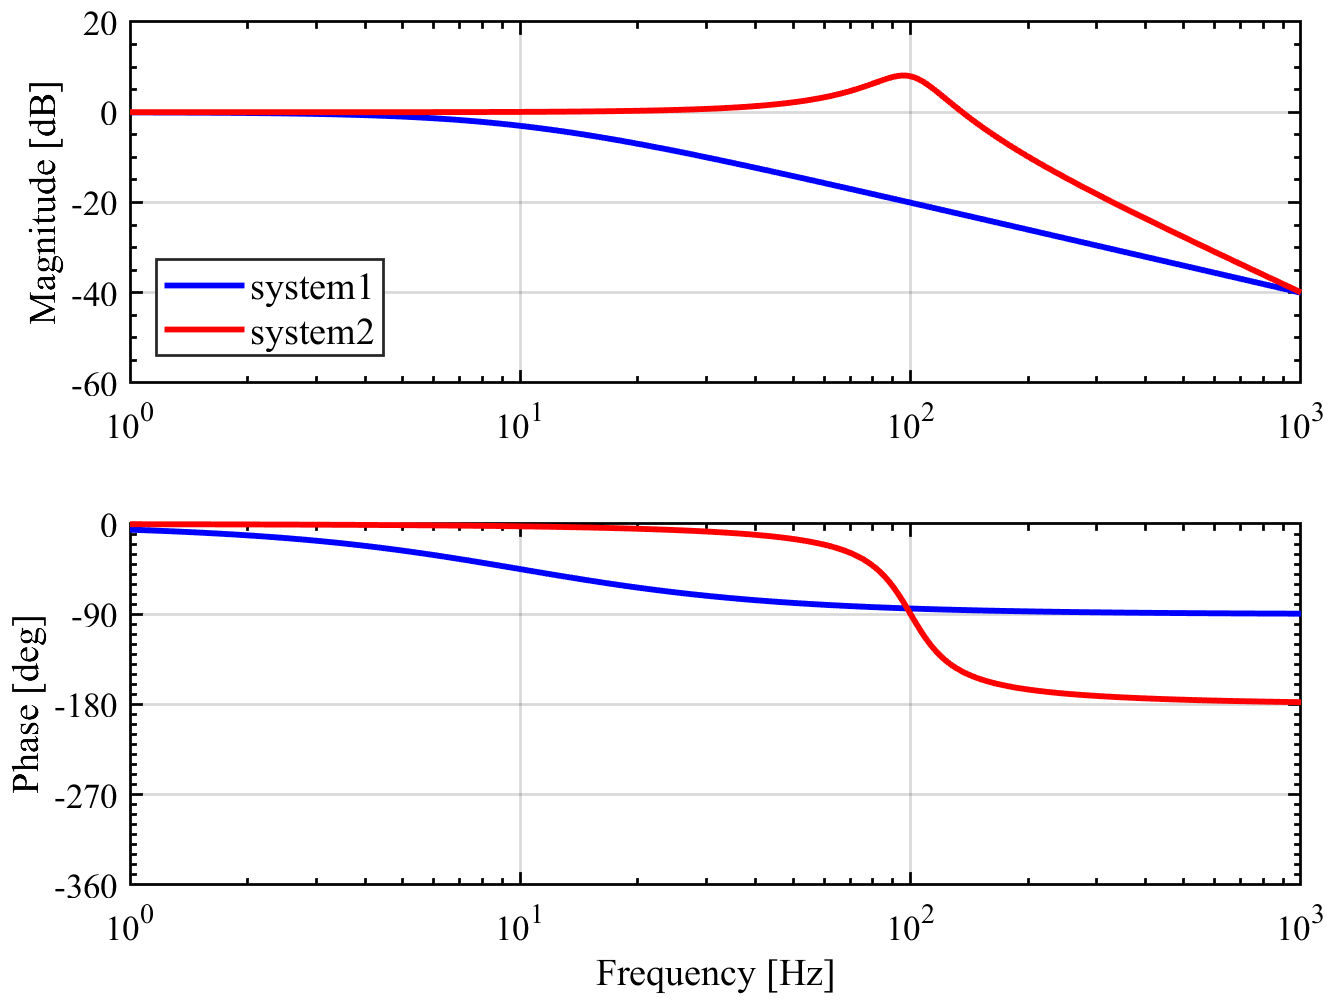
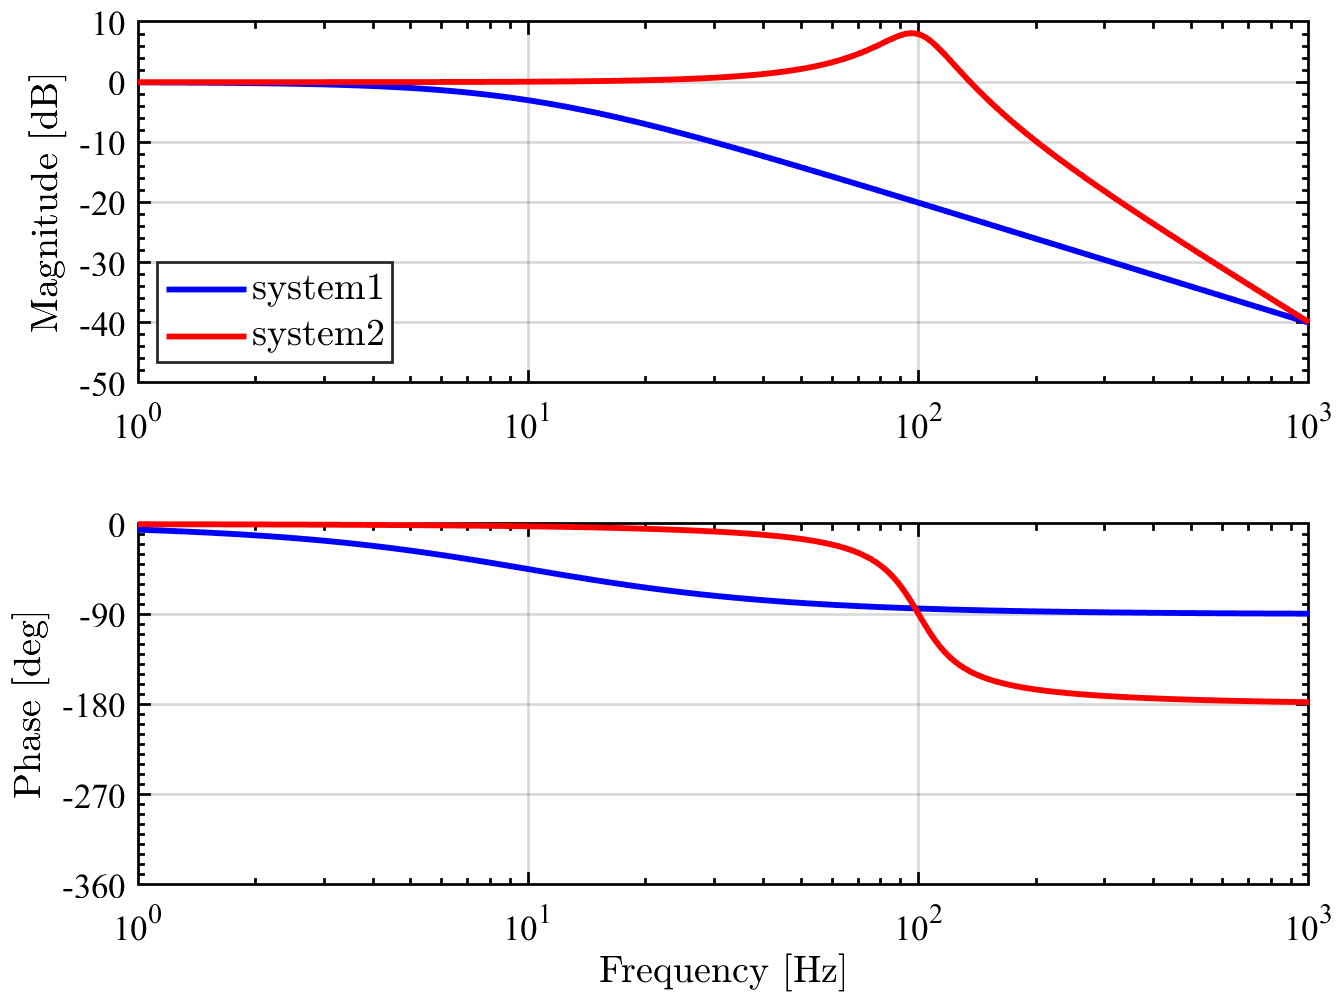
update pltBode

diff --git a/src/pltBode.m b/src/pltBode.m
@@ -1,4 +1,4 @@
-function [pfig, hfig, ax] = pltBode(in,option,cohflag)
+function [pfig, hfig, ax] = pltBode(in,option)
 %pltBode - plot Bode diagram
 %
 % pfig = pltBode(in,option)
@@ -21,61 +21,78 @@ function [pfig, hfig, ax] = pltBode(in,option,cohflag)
 %   option.foption = 'lin'; % freq plot options 'log' or 'lin'
 %   option.Legpos   : legend in gain or phase plot 'gain' or 'phase'
 %   option.title = 'Bode plot'; % title
-%   cohflag         : coherence plot
-% Advanced options
-%   data1.P         : plant model
-%   data1.Cfb       : FB controller model
-%   data1.Csh       : shaping filters
-%   option.plot     : 'P'   : plant
-%                     'PCsh': plant shaping (PCsh)
-%                     'S'   : sensitivity (1/(1+PCfbCsh))
-%                     'T'   : complementary sensitivity (PCfbCsh/(1+PCfbCsh))
-%                     'Gop' : open loop (PCfbCsh)
+%   option.noPhae = false;
 % Author    : Wataru Ohnishi, University of Tokyo, 2017
 %%%%%
-
-
-N = length(in);
 
 if nargin < 2
     option = struct;
 end
 
-if nargin < 3
-    cohflag = 0;
+data = iscellinput(in);
+option = setoptions(data,option);
+freq = option.freq;
+[option,data] = setconstraints(data,option);
+
+N = length(data);
+data = shapeData(data,freq);
+option = findGainRange(data,option);
+
+% plot figure
+ax = nan;
+hfig = figure;
+if ~option.noPhase
+    ax(1) = subplot(2,1,1);
+    pltGain(data,option);
+    
+    ax(2) = subplot(2,1,2);
+    pltPhase(data,option);
+    linkaxes(ax,'x');
+else
+    pltGain(data,option);
 end
 
+
+if exist('pubfig','file')
+    pfig = pubfig(hfig);
+    pfig.LegendLoc = option.LegendLoc;
+else
+    pfig = [];
+end
+if option.noPhase, ax = []; end
+end
+
+%%%%%%%%%%%%%%%%%%%%%%%%%%%%%%%%%%%%%%%%%%%%%%%%%%%%%%%%%%%%%%%%%%%%%%%%%%%
+
+function data = iscellinput(in)
+N = length(in);
 data = cell(1,N); % to accept pltBode(tf(1)) or pltBode({tf(1)})
 for k = 1:1:N
     if iscell(in) == 0
         in = {in};
     end
-    try
+    if isfield(in{k},'sys')
         data{k}.sys = in{k}.sys;
         data{k} = in{k};
-    catch
+    else
         data{k}.sys = in{k};
     end
 end
-
-try option.plot; catch, option.plot = 'sys'; end
-for k = 1:1:N
-    if strcmp(option.plot,'P'), data{k}.sys = data{k}.P; end
-    if strcmp(option.plot,'PCsh'), data{k}.sys = data{k}.P*data{k}.Csh; end
-    if strcmp(option.plot,'S'), data{k}.sys = feedback(1,data{k}.P*data{k}.Cfb*data{k}.Csh); end
-    if strcmp(option.plot,'T'), data{k}.sys = feedback(data{k}.P*data{k}.Cfb*data{k}.Csh,1); end
-    if strcmp(option.plot,'Gop'), data{k}.sys = data{k}.P*data{k}.Cfb*data{k}.Csh; end
 end
 
+function option = setoptions(data,option)
 if ~isfield(option,'fmin'), option.fmin = 1; option.fmax = 1000; end
 if ~isfield(option,'pmin'), option.pmin = -360; option.pmax = 0; end
 if ~isfield(option,'ptick'), option.ptick = 90; end
 if ~isfield(option,'foption'), option.foption = 'log'; end
 if ~isfield(option,'Legpos'), option.Legpos = 'gain'; end
 if ~isfield(option,'LegendLoc'), option.LegendLoc = 'best'; end
-if ~isfield(option,'phasePlot'), option.phasePlot = 1:length(in); end
-if ~isfield(option,'freq'), freq = logspace(log10(option.fmin),log10(option.fmax),1000); else, freq = option.freq; end
+if ~isfield(option,'phasePlot'), option.phasePlot = 1:length(data); end
+if ~isfield(option,'freq'), option.freq = logspace(log10(option.fmin),log10(option.fmax),1000); end
+if ~isfield(option,'noPhase'), option.noPhase = false; end
+end
 
+function [option,data] = setconstraints(data,option)
 if isfield(option,'m')
     s = tf('s');
     data_con.sys = (s/option.wc)^option.m;
@@ -91,15 +108,17 @@ if isfield(option,'Smax')
     data_con2.style = ':';
     data = [data,data_con2];
 end
-N = length(data);
+end
 
+function data = shapeData(data,freq)
 colorlist = {'b','r','k','m','g','c','g2','b2','b3'};
-for k = 1:1:N
+for k = 1:1:length(data)
     % convert to FRD
     if isnumeric(data{k}.sys)
         data{k}.sys = tf(data{k}.sys);
     end
-    if ~isfield(data{k}.sys,'ResponseData')
+%     if ~isfield(data{k}.sys,'ResponseData')
+    if ~isa(data{k}.sys,'frd')
         [mag,phase,w] = bode(data{k}.sys,freq*2*pi);
         data{k}.sys = frd(squeeze(mag).*exp(1j*deg2rad(squeeze(phase))),w/2/pi,'FrequencyUnit','Hz');
     end
@@ -114,45 +133,48 @@ for k = 1:1:N
         data{k}.sys.FrequencyUnit = 'Hz';
     end
     
-    try data{k}.style; catch, data{k}.style = '-'; end
-    try data{k}.color; catch, data{k}.color = colorlist{mod(k,9)}; end
-    try data{k}.name; catch, data{k}.name = num2str(k); end
+    if ~isfield(data{k},'style'), data{k}.style = '-'; end
+    if ~isfield(data{k},'color'), data{k}.color = colorlist{mod(k,9)}; end
+    if ~isfield(data{k},'name'), data{k}.name = num2str(k); end
     
     % color options
     data{k}.color = str2rgb(data{k}.color);
 end
+end
 
+function option = findGainRange(data,option)
 if ~isfield(option,'gmin')
     h = figure;
-    for k = 1:N
+    for k = 1:length(data)
         bode(data{k}.sys); hold on
     end
+    xlim([option.fmin,option.fmax]);
     option.gmin = h.Children(3).YLim(1);
     option.gmax = h.Children(3).YLim(end);
+    if abs(option.gmin) > 1, option.gmin = round(option.gmin); end
+    if abs(option.gmax) > 1, option.gmax = round(option.gmax); end
     option.gtick = h.Children(3).YTick(2)-h.Children(3).YTick(1);
     close(h);
 end
+end
 
-ax = nan;
-%%%%%%%%%%%%%%%%%%%%%%%%%%%%%%%%%%%%%%%%%%%%%%%%%%%%%%%%%%%%%%%%%%%%%%%%%%%%%%%
-hfig = figure;
-if ~cohflag, ax(1) = subplot(2,1,1);
-elseif cohflag, ax(1) = subplot(3,1,1); end
-for k = 1:1:N
+function pltGain(data,option)
+gain = @(data) mag2db(abs(squeeze(data.sys.ResponseData)));
+for k = 1:1:length(data)
     if strcmp(option.foption, 'log')
         if strcmp(data{k}.style,'')
-            h = scatter(data{k}.sys.frequency,mag2db(abs(squeeze(data{k}.sys.ResponseData))),'filled','o'); hold on
+            h = scatter(data{k}.sys.frequency,gain(data{k}),'filled','o'); hold on
             set(h,'MarkerEdgeColor',data{k}.color);
             set(h,'MarkerFaceColor',data{k}.color);
             set(gca,'xscale','log');
         else
-            h = semilogx(data{k}.sys.frequency,mag2db(abs(squeeze(data{k}.sys.ResponseData)))); hold on;
+            h = semilogx(data{k}.sys.frequency,gain(data{k})); hold on;
             try set(h,'Color',data{k}.color); catch, end
             try set(h,'linestyle',data{k}.style); catch, end
             try set(h,'Marker',data{k}.marker); catch, end
         end
     else
-        h = plot(data{k}.sys.frequency,mag2db(abs(squeeze(data{k}.sys.ResponseData)))); hold on;
+        h = plot(data{k}.sys.frequency,gain(data{k})); hold on;
     end
 end
 axis([option.fmin, option.fmax, option.gmin, option.gmax]);
@@ -160,11 +182,10 @@ set(gca,'ytick',option.gmin:option.gtick:option.gmax);
 ylabel('Magnitude [dB]');
 if strcmp(option.Legpos,'gain'), multiLegend(data); end
 grid on; hold on;
-try title(option.title); catch, end
+if isfield(option,'title'), title(option.title); end
+end
 
-
-if ~cohflag, ax(2) = subplot(2,1,2);
-elseif cohflag, ax(2) = subplot(3,1,2); end
+function pltPhase(data,option)
 for k = option.phasePlot
     phasedeg = rad2deg(angle(squeeze(data{k}.sys.ResponseData)));
     for kk = 1:1:length(phasedeg)
@@ -184,9 +205,9 @@ for k = option.phasePlot
             set(gca,'xscale','log');
         else
             h = semilogx(data{k}.sys.frequency,phasedeg); hold on;
-            try set(h,'Color',data{k}.color); catch, end
-            try set(h,'linestyle',data{k}.style); catch, end
-            try set(h,'Marker',data{k}.marker); catch, end
+            set(h,'Color',data{k}.color);
+            set(h,'linestyle',data{k}.style);
+            if isfield(data{k},'marker'), set(h,'Marker',data{k}.marker); end
         end
     else
         h = plot(data{k}.sys.frequency,phasedeg); hold on;
@@ -195,48 +216,8 @@ for k = option.phasePlot
 end
 axis([option.fmin, option.fmax, option.pmin, option.pmax]);
 set(gca,'ytick',option.pmin:option.ptick:option.pmax);
-if ~cohflag, xlabel('Frequency [Hz]'); end
+xlabel('Frequency [Hz]');
 ylabel('Phase [deg]');
 if strcmp(option.Legpos,'phase'), multiLegend(data); end
-grid on; hold on;
-
-
-
-if cohflag, ax(3) = subplot(3,1,3);
-    for k = 1:1:N
-        if ~isempty(data{k}.sys.UserData)
-            if strcmp(option.foption, 'log')
-                if strcmp(data{k}.style,'')
-                    hc = scatter(data{k}.sys.frequency,data{k}.sys.UserData,'filled','o'); hold on
-                    set(hc,'MarkerEdgeColor',data{k}.color);
-                    set(hc,'MarkerFaceColor',data{k}.color);
-                    set(gca,'xscale','log');
-                else
-                    hc = semilogx(data{k}.sys.frequency,data{k}.sys.UserData); hold on;
-                end
-            else
-                hc = plot(data{k}.sys.frequency,data{k}.sys.UserData); hold on;
-            try set(hc,'Color',data{k}.color); catch, end
-            try set(hc,'linestyle',data{k}.style); catch, end
-            try set(hc,'Marker',data{k}.marker); catch, end
-            end
-        else
-            % for bug for scatter
-            hc = plot(data{k}.sys.freq(1)/10,2);
-        end
-    end
-    axis([option.fmin, option.fmax, 0, 1]);
-    set(gca,'ytick',0:0.2:1);
-    xlabel('Frequency [Hz]');
-    ylabel('Coherence [-]');
-    grid on; hold on;
+grid on;
 end
-
-% if ~cohflag, linkaxes([ax1,ax2],'x');
-% elseif cohflag, linkaxes([ax1,ax2,ax3],'x'); end
-linkaxes(ax,'x');
-
-pfig = pubfig(hfig);
-pfig.LegendLoc = option.LegendLoc;
-if cohflag, pfig.Dimension = [19,16]; end
-

diff --git a/docs/example_bode.m b/docs/example_bode.m
@@ -1,7 +1,17 @@
 % Bode plot example
 clear; close all;
 s = tf('s');
+%%
+sys1 = 10*2*pi/(s+10*2*pi);
 
+w = 100*2*pi;
+sys2 = w^2/(s^2 + 2*0.2*w*s + w^2);
+
+pfig = pltBode({sys1,sys2});
+pfig.LegendLoc = 'southwest';
+
+%%
+clear data1 data2 option
 data1.sys = 10*2*pi/(s+10*2*pi);
 data1.color = 'b'; 
 data1.name = 'system1';
@@ -14,3 +24,20 @@ data2.name = 'system2';
 pfig = pltBode({data1,data2});
 pfig.LegendLoc = 'southwest';
 expfig('plot/bode1','-pdf','-png');
+
+%%
+clear data1 data2 option
+data1.sys = 10*2*pi/(s+10*2*pi);
+data1.color = 'b'; 
+data1.name = 'system1';
+
+w = 100*2*pi;
+data2.sys = frd(w^2/(s^2 + 2*0.2*w*s + w^2),logspace(0,2,20),'FrequencyUnit','Hz');
+data2.color = 'r'; 
+data2.style = ''; 
+data2.name = 'system2';
+
+option.fmin = 1; option.fmax = 100; option.pmin = -180; option.pmax = 180; 
+pfig = pltBode({data1,data2},option);
+pfig.LegendLoc = 'southwest';
+expfig('plot/bode2','-pdf','-png');

diff --git a/src/pltBodemag.m b/src/pltBodemag.m
@@ -22,6 +22,7 @@ function [pfig, hfig] = pltBodemag(in,option)
 % Author    : Wataru Ohnishi, University of Tokyo, 2020
 %%%%%
 
+warning('obsolete! use pltBode')
 
 N = length(in);
 
